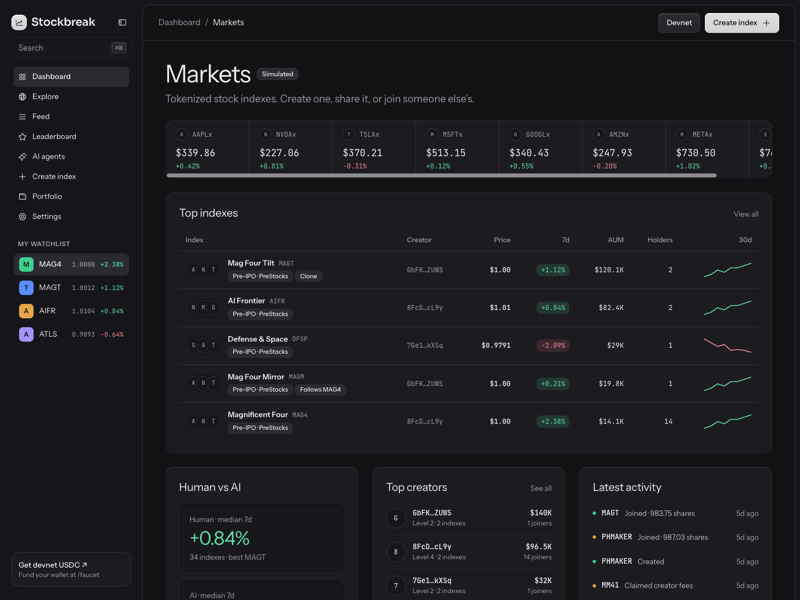
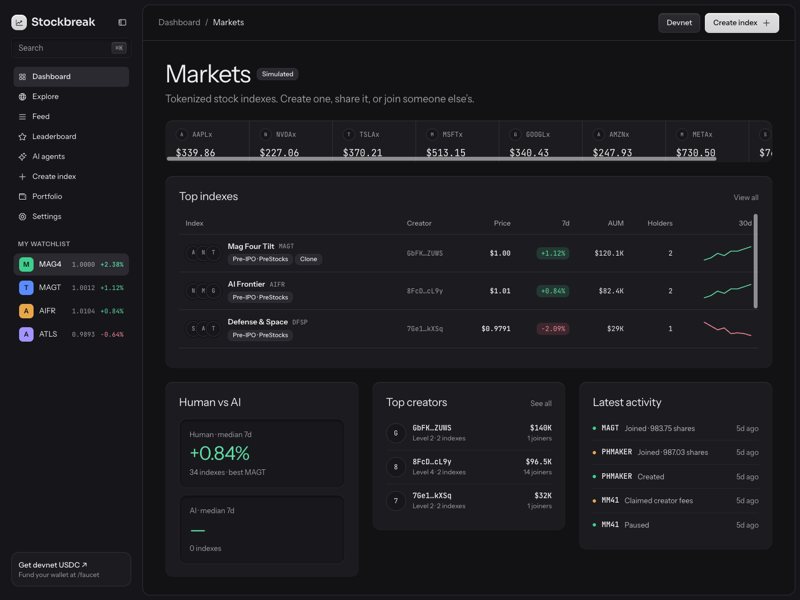
fix(examples): inset sidebar shell scrolls inside the panel

diff --git a/apps/docs/src/examples/markets-sidebar/vue.vue b/apps/docs/src/examples/markets-sidebar/vue.vue
@@ -51,7 +51,7 @@ const navIcons: Record<string, unknown> = {
 
 <template>
 <ElevationProvider mode="layered">
-	<SidebarProvider style="--sidebar-width: 16rem">
+	<SidebarProvider class="h-svh min-h-0 overflow-hidden" style="--sidebar-width: 16rem">
 		<Sidebar variant="inset" collapsible="offcanvas">
 			<SidebarHeader class="gap-3 px-3 pt-4">
 				<div class="flex items-center justify-between">
@@ -97,7 +97,7 @@ const navIcons: Record<string, unknown> = {
 				</div>
 			</SidebarFooter>
 		</Sidebar>
-		<SidebarInset class="min-w-0 bg-background">
+		<SidebarInset class="min-h-0 min-w-0 overflow-hidden bg-background">
 			<header class="flex h-16 shrink-0 items-center justify-between gap-3 border-b border-border px-4 md:px-7">
 				<div class="flex min-w-0 items-center gap-2 text-[15px]">
 					<SidebarTrigger class="md:hidden" />
@@ -113,7 +113,7 @@ const navIcons: Record<string, unknown> = {
 					</Button>
 				</div>
 			</header>
-	<div class="flex w-full flex-col gap-6 px-4 py-8 md:px-10">
+	<div class="min-h-0 flex-1 overflow-y-auto overscroll-contain flex w-full flex-col gap-6 px-4 py-8 md:px-10">
 		<div class="flex flex-wrap items-end justify-between gap-4">
 			<div>
 				<div class="flex items-center gap-3">

diff --git a/examples/react/src/shell/dashboard-layout.tsx b/examples/react/src/shell/dashboard-layout.tsx
@@ -53,7 +53,7 @@ const items = [
 
 export function DashboardLayout({ children }: { children: React.ReactNode }) {
 	return (
-		<SidebarProvider>
+		<SidebarProvider className="h-svh min-h-0 overflow-hidden">
 			<Sidebar variant="inset" collapsible="icon">
 				<SidebarHeader>
 					<a href="#/" className="flex items-center gap-2.5 px-1 py-1">
@@ -121,7 +121,7 @@ export function DashboardLayout({ children }: { children: React.ReactNode }) {
 				</SidebarFooter>
 				<SidebarRail />
 			</Sidebar>
-			<SidebarInset>
+			<SidebarInset className="min-h-0 overflow-hidden">
 				<header className="flex h-[62px] shrink-0 items-center justify-between gap-2 border-b border-border-2 px-4 md:px-6">
 					<div className="flex items-center gap-2">
 						<SidebarTrigger />
@@ -142,7 +142,9 @@ export function DashboardLayout({ children }: { children: React.ReactNode }) {
 						<ThemeToggle />
 					</div>
 				</header>
-				<div className="flex-1 overflow-auto">{children}</div>
+				<div className="min-h-0 flex-1 overflow-auto overscroll-contain">
+					{children}
+				</div>
 			</SidebarInset>
 		</SidebarProvider>
 	);

diff --git a/apps/docs/src/examples/markets-sidebar/react.tsx b/apps/docs/src/examples/markets-sidebar/react.tsx
@@ -236,10 +236,11 @@ export default function MarketsSidebarExample() {
 	return (
 		<ElevationProvider mode="layered">
 			<SidebarProvider
+				className="h-svh min-h-0 overflow-hidden"
 				style={{ "--sidebar-width": "16rem" } as React.CSSProperties}
 			>
 				<AppSidebar />
-				<SidebarInset className="min-w-0 bg-background">
+				<SidebarInset className="min-h-0 min-w-0 overflow-hidden bg-background">
 					<header className="flex h-16 shrink-0 items-center justify-between gap-3 border-b border-border px-4 md:px-7">
 						<div className="flex min-w-0 items-center gap-2 text-[15px]">
 							<SidebarTrigger className="md:hidden" />
@@ -269,7 +270,7 @@ export default function MarketsSidebarExample() {
 							</Button>
 						</div>
 					</header>
-					<div className="flex w-full flex-col gap-6 px-4 py-8 md:px-10">
+					<div className="min-h-0 flex-1 overflow-y-auto overscroll-contain flex w-full flex-col gap-6 px-4 py-8 md:px-10">
 						<div className="flex flex-wrap items-end justify-between gap-4">
 							<div>
 								<div className="flex items-center gap-3">

diff --git a/examples/layerbeat-vue/src/shell/AppShell.vue b/examples/layerbeat-vue/src/shell/AppShell.vue
@@ -31,7 +31,7 @@ function refresh() {
 </script>
 
 <template>
-	<SidebarProvider>
+	<SidebarProvider class="h-svh min-h-0 overflow-hidden">
 		<!-- Always-dark navy sidebar: a scoped `dark` class puts every token in this subtree in dark mode, even in light mode. -->
 		<Sidebar
 			v-show="navOpen"
@@ -50,7 +50,7 @@ function refresh() {
 			</SheetContent>
 		</Sheet>
 
-		<div class="flex min-w-0 flex-1 flex-col bg-background">
+		<div class="flex min-h-0 min-w-0 flex-1 flex-col overflow-hidden bg-background">
 			<header class="sticky top-0 z-20 flex h-16 shrink-0 items-center justify-between gap-3 border-b border-border bg-card px-4 md:px-7">
 				<div class="flex min-w-0 items-center gap-2 md:gap-3">
 					<Button variant="ghost" size="icon-sm" class="md:hidden" aria-label="Open navigation" @click="mobileOpen = true">
@@ -112,7 +112,7 @@ function refresh() {
 					</DropdownMenu>
 				</div>
 			</header>
-			<main class="flex-1"><slot /></main>
+			<main class="min-h-0 flex-1 overflow-y-auto overscroll-contain"><slot /></main>
 		</div>
 	</SidebarProvider>
 </template>

diff --git a/apps/docs/src/examples/markets-sidebar/svelte.svelte b/apps/docs/src/examples/markets-sidebar/svelte.svelte
@@ -35,7 +35,7 @@
 	</div>
 {/snippet}
 
-<Sidebar.Provider style="--sidebar-width: 16rem">
+<Sidebar.Provider class="h-svh min-h-0 overflow-hidden" style="--sidebar-width: 16rem">
 	<Sidebar.Root variant="inset" collapsible="offcanvas">
 		<Sidebar.Header class="gap-3 px-3 pt-4">
 			<div class="flex items-center justify-between">
@@ -94,7 +94,7 @@
 			</div>
 		</Sidebar.Footer>
 	</Sidebar.Root>
-	<Sidebar.Inset class="min-w-0 bg-background">
+	<Sidebar.Inset class="min-h-0 min-w-0 overflow-hidden bg-background">
 		<header class="flex h-16 shrink-0 items-center justify-between gap-3 border-b border-border px-4 md:px-7">
 			<div class="flex min-w-0 items-center gap-2 text-[15px]">
 				<Sidebar.Trigger class="md:hidden" />
@@ -116,7 +116,7 @@
 				</Button>
 			</div>
 		</header>
-<div class="flex w-full flex-col gap-6 px-4 py-8 md:px-10">
+<div class="min-h-0 flex-1 overflow-y-auto overscroll-contain flex w-full flex-col gap-6 px-4 py-8 md:px-10">
 	<div class="flex flex-wrap items-end justify-between gap-4">
 		<div>
 			<div class="flex items-center gap-3">

diff --git a/apps/docs/src/examples/layerbeat-create/vue.vue b/apps/docs/src/examples/layerbeat-create/vue.vue
@@ -128,9 +128,9 @@ function pickVersion(id: string, v: unknown) {
 </script>
 
 <template>
-	<SidebarProvider style="--sidebar-width: 15rem">
+	<SidebarProvider class="h-svh min-h-0 overflow-hidden" style="--sidebar-width: 15rem">
 		<AppSidebar :platform="navPlatform" :workspace="navWorkspace" />
-		<SidebarInset class="min-w-0 bg-background">
+		<SidebarInset class="min-h-0 min-w-0 overflow-hidden bg-background">
 			<header class="flex h-16 shrink-0 items-center justify-between gap-3 border-b border-border bg-card px-4 md:px-7">
 				<div class="flex min-w-0 items-center gap-1">
 					<HeaderTrigger />
@@ -173,7 +173,7 @@ function pickVersion(id: string, v: unknown) {
 				</div>
 			</header>
 
-			<div class="flex-1">
+			<div class="min-h-0 flex-1 overflow-y-auto overscroll-contain">
 				<div class="mx-auto w-full max-w-[1328px] px-4 pt-8 pb-12 md:px-9">
 					<h1 class="text-[32px] font-semibold tracking-[-0.8px]">Create a BeatVPS</h1>
 					<p class="mt-2 text-[15px] text-muted-foreground">

diff --git a/examples/layerbeat-react/src/shell/app-shell.tsx b/examples/layerbeat-react/src/shell/app-shell.tsx
@@ -179,10 +179,11 @@ function HeaderTrigger() {
 export function AppShell({ children }: { children: React.ReactNode }) {
 	return (
 		<SidebarProvider
+			className="h-svh min-h-0 overflow-hidden"
 			style={{ "--sidebar-width": "15rem" } as React.CSSProperties}
 		>
 			<AppSidebar />
-			<SidebarInset className="min-w-0 bg-background">
+			<SidebarInset className="min-h-0 min-w-0 overflow-hidden bg-background">
 				<header className="flex h-16 shrink-0 items-center justify-between gap-3 border-b border-border bg-card px-4 md:px-7">
 					<div className="flex min-w-0 items-center gap-1">
 						<HeaderTrigger />
@@ -208,7 +209,9 @@ export function AppShell({ children }: { children: React.ReactNode }) {
 						</div>
 					</div>
 				</header>
-				<div className="flex-1">{children}</div>
+				<div className="min-h-0 flex-1 overflow-y-auto overscroll-contain">
+					{children}
+				</div>
 			</SidebarInset>
 		</SidebarProvider>
 	);

diff --git a/apps/docs/src/examples/layerbeat-create/react.tsx b/apps/docs/src/examples/layerbeat-create/react.tsx
@@ -419,10 +419,11 @@ function HeaderTrigger() {
 function AppShell({ children }: { children: React.ReactNode }) {
 	return (
 		<SidebarProvider
+			className="h-svh min-h-0 overflow-hidden"
 			style={{ "--sidebar-width": "15rem" } as React.CSSProperties}
 		>
 			<AppSidebar />
-			<SidebarInset className="min-w-0 bg-background">
+			<SidebarInset className="min-h-0 min-w-0 overflow-hidden bg-background">
 				<header className="flex h-16 shrink-0 items-center justify-between gap-3 border-b border-border bg-card px-4 md:px-7">
 					<div className="flex min-w-0 items-center gap-1">
 						<HeaderTrigger />
@@ -452,7 +453,9 @@ function AppShell({ children }: { children: React.ReactNode }) {
 						</div>
 					</div>
 				</header>
-				<div className="flex-1">{children}</div>
+				<div className="min-h-0 flex-1 overflow-y-auto overscroll-contain">
+					{children}
+				</div>
 			</SidebarInset>
 		</SidebarProvider>
 	);

diff --git a/apps/docs/src/examples/layerbeat-create/svelte.svelte b/apps/docs/src/examples/layerbeat-create/svelte.svelte
@@ -76,9 +76,9 @@
 	}
 </script>
 
-<Sidebar.Provider style="--sidebar-width: 15rem">
+<Sidebar.Provider class="h-svh min-h-0 overflow-hidden" style="--sidebar-width: 15rem">
 	<AppSidebar platform={navPlatform} workspace={navWorkspace} />
-	<Sidebar.Inset class="min-w-0 bg-background">
+	<Sidebar.Inset class="min-h-0 min-w-0 overflow-hidden bg-background">
 		<header class="flex h-16 shrink-0 items-center justify-between gap-3 border-b border-border bg-card px-4 md:px-7">
 			<div class="flex min-w-0 items-center gap-1">
 				<HeaderTrigger />
@@ -159,7 +159,7 @@
 			</div>
 		</header>
 
-		<div class="flex-1">
+		<div class="min-h-0 flex-1 overflow-y-auto overscroll-contain">
 			<div class="mx-auto w-full max-w-[1328px] px-4 pt-8 pb-12 md:px-9">
 				<h1 class="text-[32px] font-semibold tracking-[-0.8px]">Create a BeatVPS</h1>
 				<p class="mt-2 text-[15px] text-muted-foreground">

diff --git a/examples/vue/src/shell/DashboardLayout.vue b/examples/vue/src/shell/DashboardLayout.vue
@@ -46,7 +46,7 @@ const items = [
 </script>
 
 <template>
-	<SidebarProvider>
+	<SidebarProvider class="h-svh min-h-0 overflow-hidden">
 		<Sidebar variant="inset" collapsible="icon">
 			<SidebarHeader>
 				<a href="#/" class="flex items-center gap-2.5 px-1 py-1">
@@ -93,7 +93,7 @@ const items = [
 			</SidebarFooter>
 			<SidebarRail />
 		</Sidebar>
-		<SidebarInset>
+		<SidebarInset class="min-h-0 overflow-hidden">
 			<header class="flex h-[62px] shrink-0 items-center justify-between gap-2 border-b border-border-2 px-4 md:px-6">
 				<div class="flex items-center gap-2">
 					<SidebarTrigger />
@@ -114,7 +114,7 @@ const items = [
 					<ThemeToggle />
 				</div>
 			</header>
-			<div class="flex-1 overflow-auto"><slot /></div>
+			<div class="min-h-0 flex-1 overflow-auto overscroll-contain"><slot /></div>
 		</SidebarInset>
 	</SidebarProvider>
 </template>

diff --git a/examples/svelte/src/lib/app/shell/dashboard-layout.svelte b/examples/svelte/src/lib/app/shell/dashboard-layout.svelte
@@ -31,7 +31,7 @@
 	];
 </script>
 
-<Sidebar.Provider>
+<Sidebar.Provider class="h-svh min-h-0 overflow-hidden">
 	<Sidebar.Root variant="inset" collapsible="icon">
 		<Sidebar.Header>
 			<a href="/" class="flex items-center gap-2.5 px-1 py-1">
@@ -88,7 +88,7 @@
 		</Sidebar.Footer>
 		<Sidebar.Rail />
 	</Sidebar.Root>
-	<Sidebar.Inset>
+	<Sidebar.Inset class="min-h-0 overflow-hidden">
 		<header
 			class="flex h-[62px] shrink-0 items-center justify-between gap-2 border-b border-border-2 px-4 md:px-6"
 		>
@@ -111,6 +111,6 @@
 				<ThemeToggle />
 			</div>
 		</header>
-		<div class="flex-1 overflow-auto">{@render children()}</div>
+		<div class="min-h-0 flex-1 overflow-auto overscroll-contain">{@render children()}</div>
 	</Sidebar.Inset>
 </Sidebar.Provider>

diff --git a/examples/layerbeat-svelte/src/lib/app/shell/app-shell.svelte b/examples/layerbeat-svelte/src/lib/app/shell/app-shell.svelte
@@ -8,11 +8,11 @@
 	let { children }: { children: Snippet } = $props();
 </script>
 
-<Sidebar.Provider style="--sidebar-width: 15rem">
+<Sidebar.Provider class="h-svh min-h-0 overflow-hidden" style="--sidebar-width: 15rem">
 	<AppSidebar />
-	<Sidebar.Inset class="min-w-0">
+	<Sidebar.Inset class="min-h-0 min-w-0 overflow-hidden">
 		<AppHeader />
-		<div class="flex-1">{@render children()}</div>
+		<div class="min-h-0 flex-1 overflow-y-auto overscroll-contain">{@render children()}</div>
 	</Sidebar.Inset>
 </Sidebar.Provider>
 <Toaster elevation="raised" />
